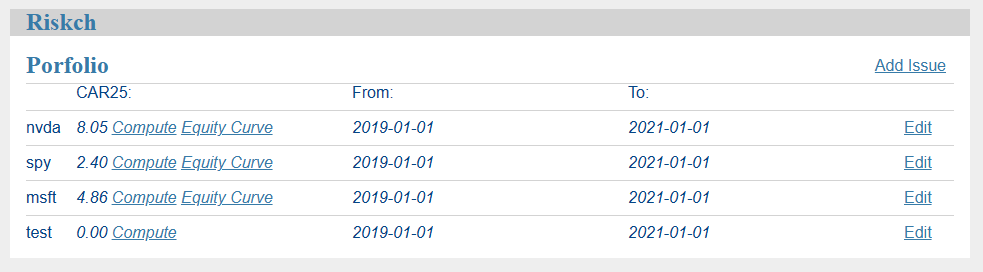
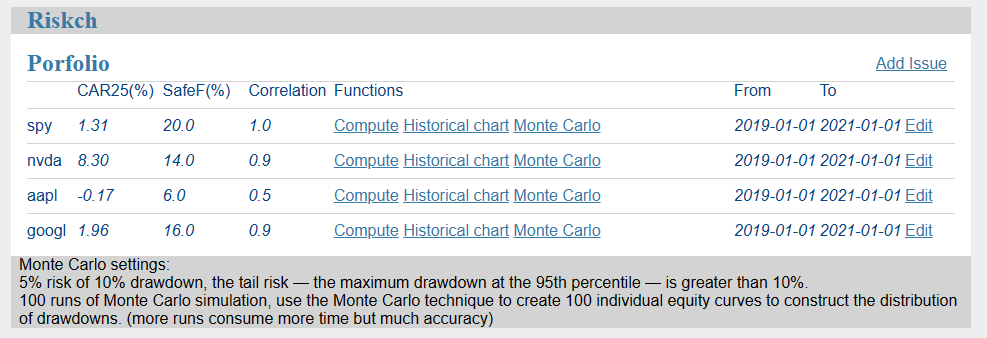
add Correlation safef column

diff --git a/riskch/templates/mpool/index.html b/riskch/templates/mpool/index.html
@@ -10,9 +10,12 @@
 <article class="issue">
   <div class="container">
     <div class="name"></div>
-    <div class="title">CAR25: </div>
-    <div class="title">From: </div>
-    <div class="title">To: </div>
+    <div class="title">CAR25(%)</div>
+    <div class="title">SafeF(%)</div>
+    <div class="title">Correlation</div>
+    <div class="func">Functions</div>
+    <div class="title">From</div>
+    <div class="title">To</div>
     <div class="edit"></div>
   </div> 
   <hr>
@@ -21,10 +24,15 @@
     <article class="issue">
       <div class="container">
         <div class="name">{{ issue['issue'] }}</div>
-        <div class="data">{{ "%.2f"|format(issue['car25']) }}
+        <div class="data">{{ "%.2f"|format(issue['car25']) }}</div>
+        <div class="data">{{ "%.1f"|format(issue['safef']) }}</div>
+        <div class="data">{{ "%.1f"|format(issue['cor2bench']) }}</div>
+        <div class="func">
           <a class="action" href="{{ url_for('mpool.sim', id=issue['id']) }}">Compute</a>
           {% if issue['car25'] != 0 %}
-          <a class="action" href="{{ url_for('chart.chart', id=issue['id']) }}">Equity Curve</a>
+          <a class="action" href="{{ url_for('chart.hist', id=issue['id']) }}">Historical chart</a>
+          <a class="action" href="{{ url_for('chart.simchart', id=issue['id']) }}">Monte Carlo</a>
+          {% else %}compute first
           {% endif %}
         </div>
         <div class="data">{{ issue['fromdate'] }}</div>

diff --git a/riskch/templates/chart/hist.html b/riskch/templates/chart/hist.html
@@ -1,11 +1,12 @@
 <!DOCTYPE html>
 <html>
 <head>
-    <title>10 equally likely equity curves</title>
+    <title>{{ oneissue["issue"] }} - equity curve</title>
     <script src="https://cdn.jsdelivr.net/npm/chart.js"></script>
 </head>
 <body>
-    <h1>10 equally likely equity curves</h1>
+    <h1>{{ oneissue["issue"] }} at {{ oneissue["safef"] }} % fixed fractional - equity curve</h1>
+    <a>{{ oneissue["fromdate"] }} - {{ oneissue["todate"] }}</a>
     <canvas id="myChart" width="400" height="200"></canvas>
 
     <script>

diff --git a/riskch/templates/base.html b/riskch/templates/base.html
@@ -15,3 +15,10 @@
     {% endfor %}
     {% block content %}{% endblock %}
   </section>
+<nav>
+  <ul>
+  Monte Carlo settings: <br>
+  5% risk of 10% drawdown, the tail risk — the maximum drawdown at the 95th percentile — is greater than 10%.<br>
+  100 runs of Monte Carlo simulation, use the Monte Carlo technique to create 100 individual equity curves to construct the distribution of drawdowns. (more runs consume more time but much accuracy)
+  </ul>
+</nav>

diff --git a/riskch/static/style.css b/riskch/static/style.css
@@ -100,6 +100,11 @@ nav ul li a, nav ul li span, header .action {
   flex: 0 0 50px;
 }
 
+.issue .func {
+  color: #044586;
+  flex: 0 0 400px;
+}
+
 .content:last-child {
   margin-bottom: 0;
 }

diff --git a/riskch/mpool.py b/riskch/mpool.py
@@ -5,7 +5,7 @@ from werkzeug.exceptions import abort
 import json
 
 from riskch.db import get_db
-from riskch.compute import getTrades, calCAR
+from riskch.compute import getTrades, calCAR, calPnl_fixfrac, calCCxy
 
 bp = Blueprint('mpool', __name__)
 
@@ -25,7 +25,7 @@ def create():
         issue = request.form['issue']
         fromdate = request.form['from_date']
         todate = request.form['to_date']
-        car25 = 0
+        #car25 = 0
         error = None
 
         if not issue:
@@ -35,9 +35,10 @@ def create():
             db = get_db()
             try:
                 db.execute(
-                    'INSERT INTO marketpool (issue, fromdate, todate, car25)'
-                    ' VALUES (?, ?, ?, ?)',
-                    (issue, fromdate, todate, car25)
+                    'INSERT INTO marketpool (issue, fromdate, todate)'
+                    ' VALUES (?, ?, ?)',
+                    #(issue, fromdate, todate, car25)
+                    (issue, fromdate, todate, )
                 )
                 db.commit()
             except db.IntegrityError:
@@ -61,9 +62,23 @@ def get_issue(id,):
 
     return oneissue
 
+def get_issue_name(issue,):
+    oneissue = get_db().execute(
+        'SELECT *'
+        ' FROM marketpool m'
+        ' WHERE m.issue = ?',
+        (issue,)
+    ).fetchone()
+
+    if oneissue is None:
+        abort(404, f"Issue name {issue} doesn't exist.")
+
+    return oneissue
+
 @bp.route('/<int:id>/update', methods=('GET', 'POST'))
 def update(id):
     oneissue = get_issue(id)
+    preissue = oneissue["issue"]
 
     if request.method == 'POST':
         issue = request.form['issue']
@@ -77,12 +92,21 @@ def update(id):
         if error is None:
             db = get_db()
             try:
-                db.execute(
-                    'UPDATE marketpool SET issue = ?, fromdate = ?, todate = ?'
-                    ' WHERE id = ?',
-                    (issue, fromdate, todate, id)
-                )
+                if issue != preissue:
+                    # clear previous computation results
+                    db.execute(
+                        'UPDATE marketpool SET issue = ?, fromdate = ?, todate = ?, car25 = 0.0, safef = 0.0'
+                        ' WHERE id = ?',
+                        (issue, fromdate, todate, id)
+                    )                    
+                else:
+                    db.execute(
+                        'UPDATE marketpool SET issue = ?, fromdate = ?, todate = ?'
+                        ' WHERE id = ?',
+                        (issue, fromdate, todate, id)
+                    )
                 db.commit()
+                
             except db.IntegrityError:
                 error = f"Issue {issue} is already in the pool."
             else:
@@ -112,39 +136,80 @@ def sim(id):
     fromdate = oneissue['fromdate']
     todate = oneissue['todate']
     error = None
+    f = 0
 
     if fromdate is None or todate is None:
         error = "Time period is required."
 
     try:
-        pnl = getTrades(oneissue, datasource, remoterefresh)
+        trades = getTrades(oneissue, datasource, remoterefresh)
+        pnl_d = trades["pnl_d"]
+        close_d = trades["close_d"]
     except Exception as e:
         error = str(e)
     else:
-        result = calCAR(pnl,oneissue)
-        
+        result = calCAR(pnl_d,oneissue)
+        f = int(result['safef'])
+        pnl = calPnl_fixfrac(pnl_d,oneissue,f)
+  
     if error is not None:
         flash(error)
     else:
         db = get_db()
+        # update car25, safef
         db.execute(
-            'UPDATE marketpool SET car25 = ?'
+            'UPDATE marketpool SET car25 = ?, safef = ?'
             ' WHERE id = ?',
-            (result['car25'], id)
+            (result['car25'], f, id)
         )
-        db.commit()
         id =int(id)
+        # delete previous simulation curves
         db.execute(
             'DELETE FROM eq_safef WHERE issue_id = ?',(id,)
         )        
-        db.commit()
-        
+        # insert new simulation curves
         list_data = result['eq']
         for curve in list_data:
             json_str = json.dumps(curve)
             db.execute(
                 'INSERT INTO eq_safef (issue_id, curve) VALUES (?, ?)', 
                 (id, json_str))
-        db.commit()
+
+        # delete previous histogram
+        db.execute(
+            'DELETE FROM hist WHERE issue_id = ?',(id,)
+        ) 
+
+        # insert histogram and trade curve at safe
+        tradeno = 0
+        for element in pnl:
+            if tradeno == 0:
+                db.execute(
+                    'INSERT INTO hist (issue_id, trade_id, close_d, retrun_d, pnl)'
+                    'VALUES (?, ?, ?, ?, ?)', 
+                    (id, tradeno, close_d[tradeno], 0, element)
+                )  
+            else:
+                db.execute(
+                    'INSERT INTO hist (issue_id, trade_id, close_d, retrun_d, pnl)'
+                    'VALUES (?, ?, ?, ?, ?)', 
+                    (id, tradeno, close_d[tradeno], pnl_d[tradeno-1], element)
+                )
+            tradeno += 1
+            
+        # Retrieve pnl bench id 1
+        benchmark_name = "spy"
+        oneissue_bench = get_issue_name(benchmark_name)
+        pnl_bench = db.execute('SELECT pnl FROM hist WHERE issue_id = ?', (oneissue_bench["id"],)).fetchall()
+        pnl_bench_list = [row[0] for row in pnl_bench]
+        correlation = calCCxy(pnl,pnl_bench_list)
+        # update correlation to benchmark
+        db.execute(
+            'UPDATE marketpool SET cor2bench = ?'
+            ' WHERE id = ?',
+            (correlation, id)
+        )
         
+        db.commit()
+
     return redirect(url_for('mpool.index'))

diff --git a/riskch/compute.py b/riskch/compute.py
@@ -4,7 +4,7 @@ import datetime
 import bisect
 from flask import current_app
 
-def getTrades(oneissue:dict, data:str="local", remoterefresh:bool=False) -> np.array:
+def getTrades(oneissue:dict, data:str="local", remoterefresh:bool=False) -> dict:
     file_path = current_app.config["CSVTMP"]
     data_source = current_app.config["SOURCE"]
     apikey = current_app.config["API_KEY"]
@@ -39,7 +39,7 @@ def getTrades(oneissue:dict, data:str="local", remoterefresh:bool=False) -> np.a
         pnl = (qtC[1:] - qtC[:-1]) / qtC[:-1]     
         np.savetxt(file_path, pnl, fmt="%f", delimiter=",")
                 
-    return pnl
+    return {'pnl_d':pnl,'close_d':qtC}
 
 def calCAR(pnl:np.array, oneissue:dict) -> dict:
     debug = current_app.config["DEBUG"]
@@ -124,3 +124,33 @@ def calCAR(pnl:np.array, oneissue:dict) -> dict:
         
     # calculate base eq curve
     return {'safef':safef,'car25':car25,'eq':data}
+
+def calPnl_fixfrac(pnl_d:np.array, oneissue:dict, f:int) -> list:
+    debug = current_app.config["DEBUG"]    
+    count = pnl_d.size
+    if count == 0:
+        return False
+    # Calculate account balance current sequence of trades
+    equity = 1
+    equityhigh = equity
+    ddmax = 0
+    pnl = [1]       
+    for i in range(count):
+        newequity = equity * (1+(f/100*(pnl_d[i])))
+        # Calculate closed trade percent drawdown
+        if (newequity > equityhigh):
+            equityhigh = newequity
+        else:
+            dd = (equityhigh - newequity) / equityhigh
+            if (dd > ddmax):
+                ddmax = dd
+        equity = newequity
+        pnl.append(equity)
+
+    return pnl
+
+def calCCxy(x:list, y:list) -> float:
+    # Compute correlation coefficient
+    correlation_matrix = np.corrcoef(x, y)
+    correlation = correlation_matrix[0, 1]
+    return correlation

diff --git a/riskch/chart.py b/riskch/chart.py
@@ -7,7 +7,7 @@ from flask import (
     Blueprint, flash, g, redirect, render_template, request, url_for
 )
 from riskch.db import get_db
-from riskch.compute import getTrades, calCAR
+from riskch.mpool import get_issue
 
 from flask import Blueprint
 
@@ -17,16 +17,10 @@ bp = Blueprint("chart", __name__, url_prefix="/chart")
 def index():
     return redirect(url_for("index"))
 
-@bp.route("/<int:id>", methods=('GET',))
-def chart(id):
+@bp.route("/sim/<int:id>", methods=('GET',))
+def simchart(id):
     db = get_db()
-    
-    #issues = db.execute(
-    #    'SELECT *'
-    #    ' FROM eq_safef'
-    #    ' ORDER BY id ASC'
-    #).fetchall()
-    
+
     # Generate data for each line 
     num_lines = 10
     data = []
@@ -57,4 +51,27 @@ def chart(id):
         data=data,
         labels=labels,
         num_lines=num_lines
+    )
+    
+@bp.route("/hist/<int:id>", methods=('GET',))
+def hist(id):
+    data = []
+    db = get_db()
+    oneissue = get_issue(id)
+    # Retrieve pnl
+    pnl = db.execute('SELECT pnl FROM hist WHERE issue_id = ?', (id,)).fetchall()
+    pnl_list = [row[0] for row in pnl]
+    labels = list(range(1, len(pnl_list)+1))
+    data.append(pnl_list)
+    # Retrieve daily close
+    close_d = db.execute('SELECT close_d FROM hist WHERE issue_id = ?', (id,)).fetchall()
+    close_list = [row[0] for row in close_d]    
+    data.append(close_list)
+    # Return the components to the HTML template
+    return render_template(
+        template_name_or_list='chart/hist.html',
+        data=data,
+        labels=labels,
+        num_lines=1,
+        oneissue=oneissue
     )

diff --git a/README.md b/README.md
@@ -41,11 +41,21 @@ After the web application starts, navigate to `http://localhost:8001` in your we
 ![add](screen/add.PNG "")
 ![edit](screen/edit.PNG "")
 
-At the first page, you can add, edit, delete and compute the perform metric. For demo, I typical select CAR25 from the book of Dr. Howard Bandy - Quantitative Technical Analysist.
+At the first page, you can add, edit, delete and compute the perform metric. For demo, I typical select CAR25 from the book of Dr. Howard Bandy - Quantitative Technical Analysist. Also compute the Correlation coefficient to the market, preset to "spy".
 
 Click on the Equity Curve to check the 10 equally likely equity curves from the Monte Carlos simulation:
 
 ![eqcurve](screen/eqcurve.PNG "")
+
+Equity Curve at Safe F.
+
+![history](screen/history.PNG "")
+
+## Terms
+
+CAR25 is a conservative metric that can be used to compare alternative uses of funds.  It is the compound annual rate of return for the risk normalized profit at the 25th percentile of the distribution
+
+SAFEF is the fixed fractional position size at the trade system.
 
 ## Debug related commands
 
